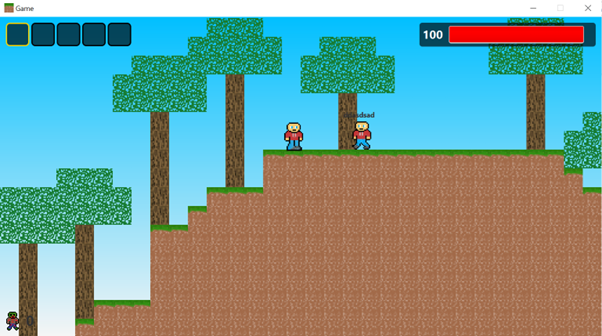
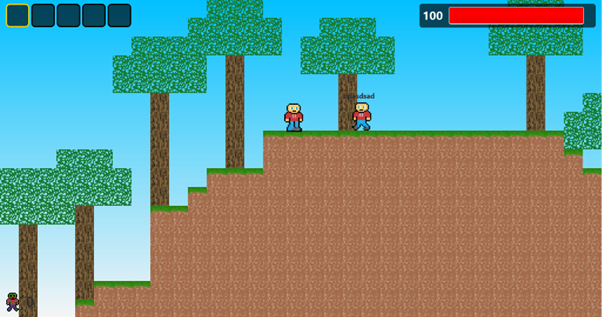
updated image aspect ratio

diff --git a/index.html b/index.html
@@ -54,7 +54,9 @@
                 <div class="projectDescBox">
                     <p class="projectTitle">Chess</p>
                     <p style="font-size: 18px">This game allows two players to play each other locally in a game of chess.
-                    Pieces can be moved by dragging and dropping or by clicking. The board rotates after each player's turn.</p>
+                        Creating this game was amazing for developing my OOP skills.
+                    Pieces can be moved by dragging and dropping or by clicking. The board rotates after each player's turn.
+                    This game uses the JavaFX library.</p>
                     <div class="projectButtons">
                         <a href="http://github.com/dann634/chess" class="fa fa-github fa-2x"></a>
                     </div>

diff --git a/home.css b/home.css
@@ -76,7 +76,7 @@ p {
 
 .grid-item {
     background-color: #3C3D37;
-    border-radius: 10%;
+    border-radius: 25px;
     border-style: solid;
     border-color: black;
     display: grid;
@@ -142,12 +142,12 @@ p {
 }
 
 #terrafy-img {
-    width: 500px; /* Ensures the image doesn't overflow the container */
-    height: auto;    /* Maintains the aspect ratio */
-    /*padding-top: 20px;*/
-    margin-top: 20px;
-    margin-left: 40px;
+    height: 80%;
+    width: 80%;
+    margin-top: 50px;
+    margin-left: 50px;
     border-radius: 5%;
+    max-width: 500px;
 }
 
 #chess-img {
